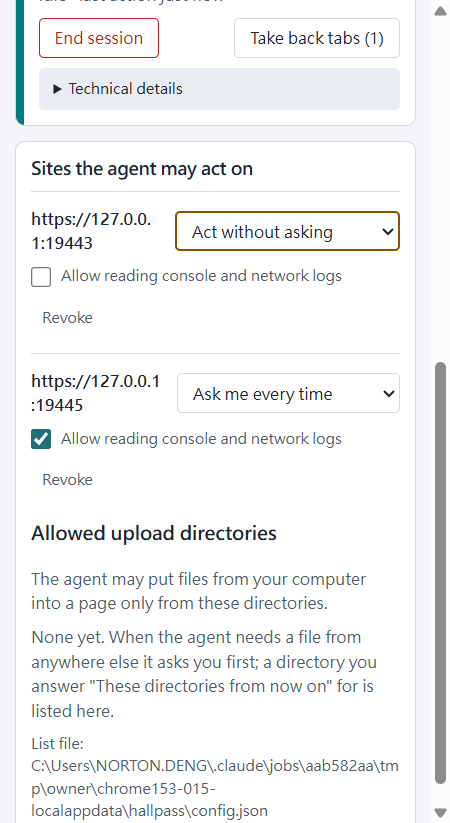
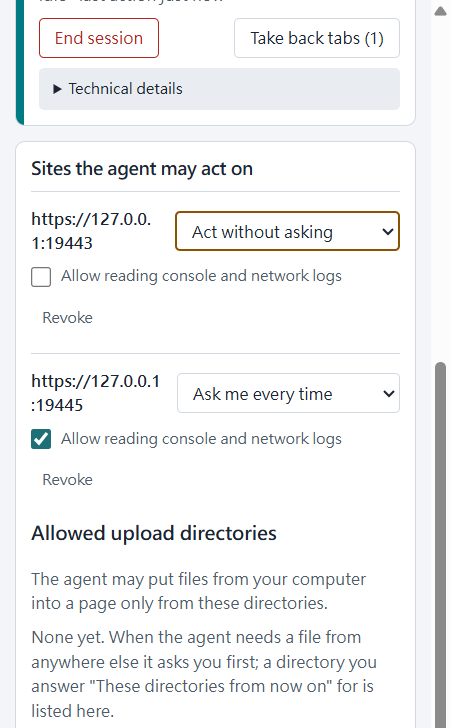
Hallpass 0.9.0: CLAUDE.md for contributors, sites screenshots cropped
- CLAUDE.md: commands, test suites, bridge architecture and project rules
  for Claude Code sessions in this repository.
- docs/media/016-panel-*-sites.png cropped so no local configuration path
  is shown; agent-panel-shots.spec.ts guards retakes against it.

Snapshot of the private main at 31b1714.

diff --git a/tests/e2e/packaged/agent-panel-shots.spec.ts b/tests/e2e/packaged/agent-panel-shots.spec.ts
@@ -1,6 +1,6 @@
 import { copyFileSync, mkdirSync, mkdtempSync, rmSync, writeFileSync } from "node:fs";
-import { tmpdir } from "node:os";
-import { join } from "node:path";
+import { homedir, tmpdir, userInfo } from "node:os";
+import { dirname, join, sep } from "node:path";
 import type { BrowserContext } from "@playwright/test";
 import { lookup, type AppLocale } from "../../../apps/extension/src/locales/catalog.js";
 import { startMcpClient, type McpHarnessClient } from "../../harness/mcp-client.js";
@@ -141,7 +141,15 @@ test.describe("agent panel screenshots", () => {
         const lowerName = `016-panel-${locale}-sites.png`;
         const lowerSaved = test.info().outputPath(lowerName);
         writeFileSync(lowerSaved, Buffer.from(lowerData ?? "", "base64"));
-        copyFileSync(lowerSaved, join(MEDIA, lowerName));
+        // The last line of the upload list is the host's config path, which follows the LOCALAPPDATA the
+        // *browser* was launched with. docs/media ships in the public repo and the snapshot check reads
+        // text, not pixels, so a path naming the maintainer's account never reaches docs/media.
+        const listPath = await panel.evaluatePanel("document.querySelector('.agent-upload-roots-path')?.textContent ?? ''");
+        const leak = namesThisAccount(typeof listPath === "string" ? listPath : "");
+        expect
+          .soft(leak, `${lowerName} shows ${JSON.stringify(listPath)}; launch the browser with a neutral LOCALAPPDATA (e.g. C:\\hallpass-demo) and retake. Kept only at ${lowerSaved}`)
+          .toBe(false);
+        if (!leak) copyFileSync(lowerSaved, join(MEDIA, lowerName));
         await panel.evaluatePanel("window.scrollTo(0, 0), document.scrollingElement?.scrollTo(0, 0), true");
 
         await panel.clickButton(ui("agent.refuse"));
@@ -169,6 +177,18 @@ test.describe("agent panel screenshots", () => {
     }
   });
 });
+
+/**
+ * True when `text` names this account: its name, or any path under the folder that holds the home
+ * directories (`C:\Users\` - which also catches an 8.3 short form such as `JANEDO~1`).
+ * Case-insensitive. A neutral LOCALAPPDATA lives outside that folder.
+ */
+function namesThisAccount(text: string): boolean {
+  const haystack = text.toLowerCase();
+  return [`${dirname(homedir())}${sep}`, userInfo().username]
+    .map((needle) => needle.trim().toLowerCase())
+    .some((needle) => needle.length > 1 && haystack.includes(needle));
+}
 
 async function ownerPanel(fixtures: {
   extensionContext: BrowserContext;

diff --git a/CLAUDE.md b/CLAUDE.md
@@ -1,0 +1,117 @@
+# CLAUDE.md
+
+This file provides guidance to Claude Code (claude.ai/code) when working with code in this repository.
+
+## What this is
+
+Hallpass: a Manifest V3 Chrome extension plus a local stdio MCP server that lets coding agents drive
+the user's own Chrome under per-site, per-action consent given in the side panel. Windows 11 only,
+Node >= 24, npm workspaces, TypeScript, React (side panel), Vite (extension bundles). The README
+has the user-facing tool list and consent model; `CONTRIBUTING.md` has the build and test detail.
+
+## Commands
+
+```powershell
+npm install
+npx tsc -b                    # build the packages (workspaces consume each other's dist/)
+npm run build                 # tsc -b + extension -> apps/extension/dist/agent (the only build target)
+npm run agent-host:install    # register the native host for this checkout (HKCU, no admin)
+
+npm run typecheck             # packages + extension + tests tsconfigs
+npm test                      # vitest projects "unit" (node) + "extension-ui" (jsdom, *.test.tsx)
+npm run test:contract         # vitest project "contract" — reads the BUILT artefacts; build first
+npm run snapshot:check        # scans the next commit's tree for strings/paths that must not be published
+
+npm run package               # release/hallpass-<version>.zip (extension + Vite-bundled host + install.ps1)
+```
+
+CI (`.github/workflows/ci.yml`, windows-latest) runs, in order: `npm ci`, typecheck, `npm test`,
+`npm run build:extension`, `npm run test:contract`, `npm run snapshot:check`.
+
+Single test: `npx vitest run --project unit packages/domain/src/foo.test.ts` (or add `-t "<name>"`).
+Project membership is by path — see `vitest.config.ts`: `packages/**/*.test.ts` and
+`apps/extension/tests/**/*.test.ts` are `unit`, `apps/extension/tests/**/*.test.tsx` are
+`extension-ui`, `tests/contract/**` is `contract`.
+
+After an extension rebuild, reload it at `chrome://extensions`; the host needs no reinstall unless
+the checkout moves. Anything Node runs directly under `--experimental-strip-types` (`scripts/*.ts`,
+`apps/extension/scripts/*.ts`, `tests/harness/*.ts`, the release runners) cannot import a sibling
+`.ts` through a `.js` specifier — it must import a built `dist/` module. Typecheck and vitest accept
+the `.js` form, so the mistake only surfaces when the gate's webServer exits at startup.
+
+### Browser suites (local only, not in CI)
+
+- **Packaged gate** — `tests/e2e/packaged/agent-*.spec.ts` via `playwright.extension.config.ts`
+  (single worker, no retries, each run writes to its own `test-results/<run-id>/`). It attaches to
+  a Chrome started with `--remote-debugging-port=9222` with `apps/extension/dist/agent` loaded:
+  `HALLPASS_CDP_ENDPOINT=http://127.0.0.1:9222 npx playwright test --config playwright.extension.config.ts tests/e2e/packaged/<spec> --reporter=list`.
+  To stay off the bridge of the everyday browser, give both the browser and the runner a private
+  `LOCALAPPDATA` and set `HALLPASS_FOREIGN_AGENT_SERVERS=allow` (refused with the default
+  `LOCALAPPDATA`). The page fixtures (`npm run dev:test-pages`, `https://localhost:19443`) need the
+  test TLS certificate: `npm run test:certs:install` / `test:certs:verify`.
+- **Acceptance probes** — `npm run probe:004` drives the bridge with a real `claude -p` session and
+  costs API calls; run for a release, not per change.
+
+## Architecture
+
+Three runtime parties, and the protocols between them are closed schemas in `packages/contracts`
+(`strictObject` everywhere: an undeclared field is refused at the boundary).
+
+```
+coding agent ──stdio MCP──> mcp-server.js ──loopback TCP──> native-host.js ──native messaging──> service worker
+ (one per agent session)    (packages/agent-host)            (relay, spawned by Chrome)            (apps/extension)
+```
+
+- **`packages/agent-host`** — `mcp-server.ts` is spawned by each agent session and is the
+  long-lived side. `native-host.ts` is the relay Chrome spawns through the registered host
+  manifest (Chrome always starts its own host, it never attaches to a running one). The relay
+  listens and every MCP server dials in; `relay-mux.ts` routes frames by `callId`/`sessionId` so N
+  sessions share one native port, and the relay forwards frames unchanged — it carries no policy.
+  They find each other through `%LOCALAPPDATA%\hallpass\bridge.json`, which only the relay writes
+  (`bridge-link.ts`; one writer, N diallers — an earlier N-writer design broke multi-session). `tool-offering.ts` says which contract tools this host actually carries and pins
+  the host version to the extension's. `install/` writes the host manifest and HKCU registry keys
+  for Chrome, Chromium, Edge and Brave. `upload-policy.ts` / `upload-config-store.ts` enforce
+  `uploadRoots` in `%LOCALAPPDATA%\hallpass\config.json`.
+- **`apps/extension/src/service-worker`** — all authority lives here or in the host:
+  `agent-bridge.ts` (native port), `agent-runtime.ts` (sessions, pairing, dispatch),
+  `agent-tab-manager.ts` (per-session tab groups), `agent-panel-port.ts` (broadcast to every open
+  side-panel document — there can be several). `agent-tools/` has one runner per tool family;
+  `agent-tools/gate.ts` is the single pure function deciding whether an effect may run under the
+  site mode (`ask` default / `follow-a-plan` / `skip-checks`). `recording/` is the GIF recorder.
+- **`apps/extension/src/content-runtime`** — injected into pages: element refs, targets, field
+  state, the agent cursor and page-edge indicator. Built by a separate Vite config
+  (`vite.content-runtime.config.ts`, `vite.agent-content.config.ts`) and validated after build.
+- **`apps/extension/src/offscreen`** — GIF encoding/rasterising. **`side-panel/agent`** — the React
+  consent/status UI (pairing cards, consent cards, session cards, site list).
+  **`chrome-adapters/`** — thin wrappers over `chrome.*` APIs (debugger, tabs, tab groups, capture…).
+- **`packages/domain`** — pure policy with no Chrome dependency: grants, canonical origins,
+  origin safety, form-value redaction, task plans.
+- **`packages/test-kit`** — shared test helpers; `tests/harness/` has the fake agent worker, an
+  MCP client and the HTTPS page fixtures.
+
+The extension manifest is generated (`apps/extension/scripts/write-manifest.ts`) with a fixed key,
+so the extension ID is stable and the native host accepts only that ID. Contract tests pin the
+manifest permissions, the host/extension version pairing, and that shipped source contains no test
+tooling or references to other products.
+
+## Project rules that are not obvious from the code
+
+- **Spec-driven.** Every feature has a directory under `specs/NNN-*` (spec, plan, research
+  decisions `R-###`, tasks `T###`, coverage file); code comments cite those IDs. The spec-kit
+  workflow lives in `.specify/` (constitution in `.specify/memory/constitution.md`) with skills in
+  `.claude/skills/speckit-*`. A behaviour change amends the relevant spec's change log or opens a
+  new spec; a fix does not need one.
+- **Clean room.** Hallpass matches observable behaviour of other products (`docs/design-notes.md`),
+  but never copies or adapts their source, bundles, assets, identifiers or protocols. Describe the
+  behaviour in your own words and implement it independently.
+- **Public snapshot.** The public repository is produced by `git archive`; `.gitattributes`
+  `export-ignore` keeps private files out (`docs/reference-*.md`, probe reports,
+  `CLAUDE-CODE-HANDOFF.md`, `.mcp.json`, `.scratch/`…). `npm run snapshot:check` fails on the
+  maintainer's account name or local checkout path, other extensions' IDs, and the project's old
+  pre-release identifiers — so never write absolute local paths into tracked files. Exceptions go in
+  `scripts/snapshot-allowlist.txt` as `path::substring`.
+- **Test first, two attempts then stop.** A behaviour change comes with the one focused failing test
+  that would have caught its absence. If a fix fails twice, stop guessing: take one measurement
+  (log line, timing, gate screenshot) and restart from it.
+  This overrides the "tests are optional" default in `.claude/skills/speckit-tasks`: task lists
+  generated here include a test task for every behaviour change.

diff --git a/specs/016-readable-panel/coverage.md b/specs/016-readable-panel/coverage.md
@@ -67,6 +67,7 @@ Numbers per slice and the final verification are added as they land.
 | --- | --- |
 | every `agent-*` gate on branded Chrome 154.0.8037.57 (attach) | **62 passed, 2 skipped (by design), 0 failed** - 52 in the first run, which hit the 20-min global bound; the 10 not reached (`agent-upload-image` last test, `agent-upload`, `agent-viewport`, `agent-window-restore`) re-run separately, 10/10 |
 | panel screenshots zh-TW / en-US, light / dark, plus the lower half (`016-panel-*-sites.png`) | captured on Chrome 154, owner approved |
+| lower-half screenshots after release (2026-09-28) | the last lines of the upload list showed the config path under the maintainer's account folder (the browser ran with a LOCALAPPDATA inside it); both `016-panel-*-sites.png` cropped from 450x823 to 450x728 to drop those lines, nothing repainted, owner approved the crops. `agent-panel-shots.spec.ts` now keeps a lower-half shot out of `docs/media` (soft failure, kept in the run output) when that line names the account or sits under the home-directory parent; retakes need the browser launched with a neutral LOCALAPPDATA such as `C:\hallpass-demo` |
 | unit / contract / snapshot after the owner-check fixes | 1587 passed + 1 skipped / 256 / 656 files 0/0 |
 
 Harness note: a debug Chrome started from the owner's own PowerShell window could not start the
